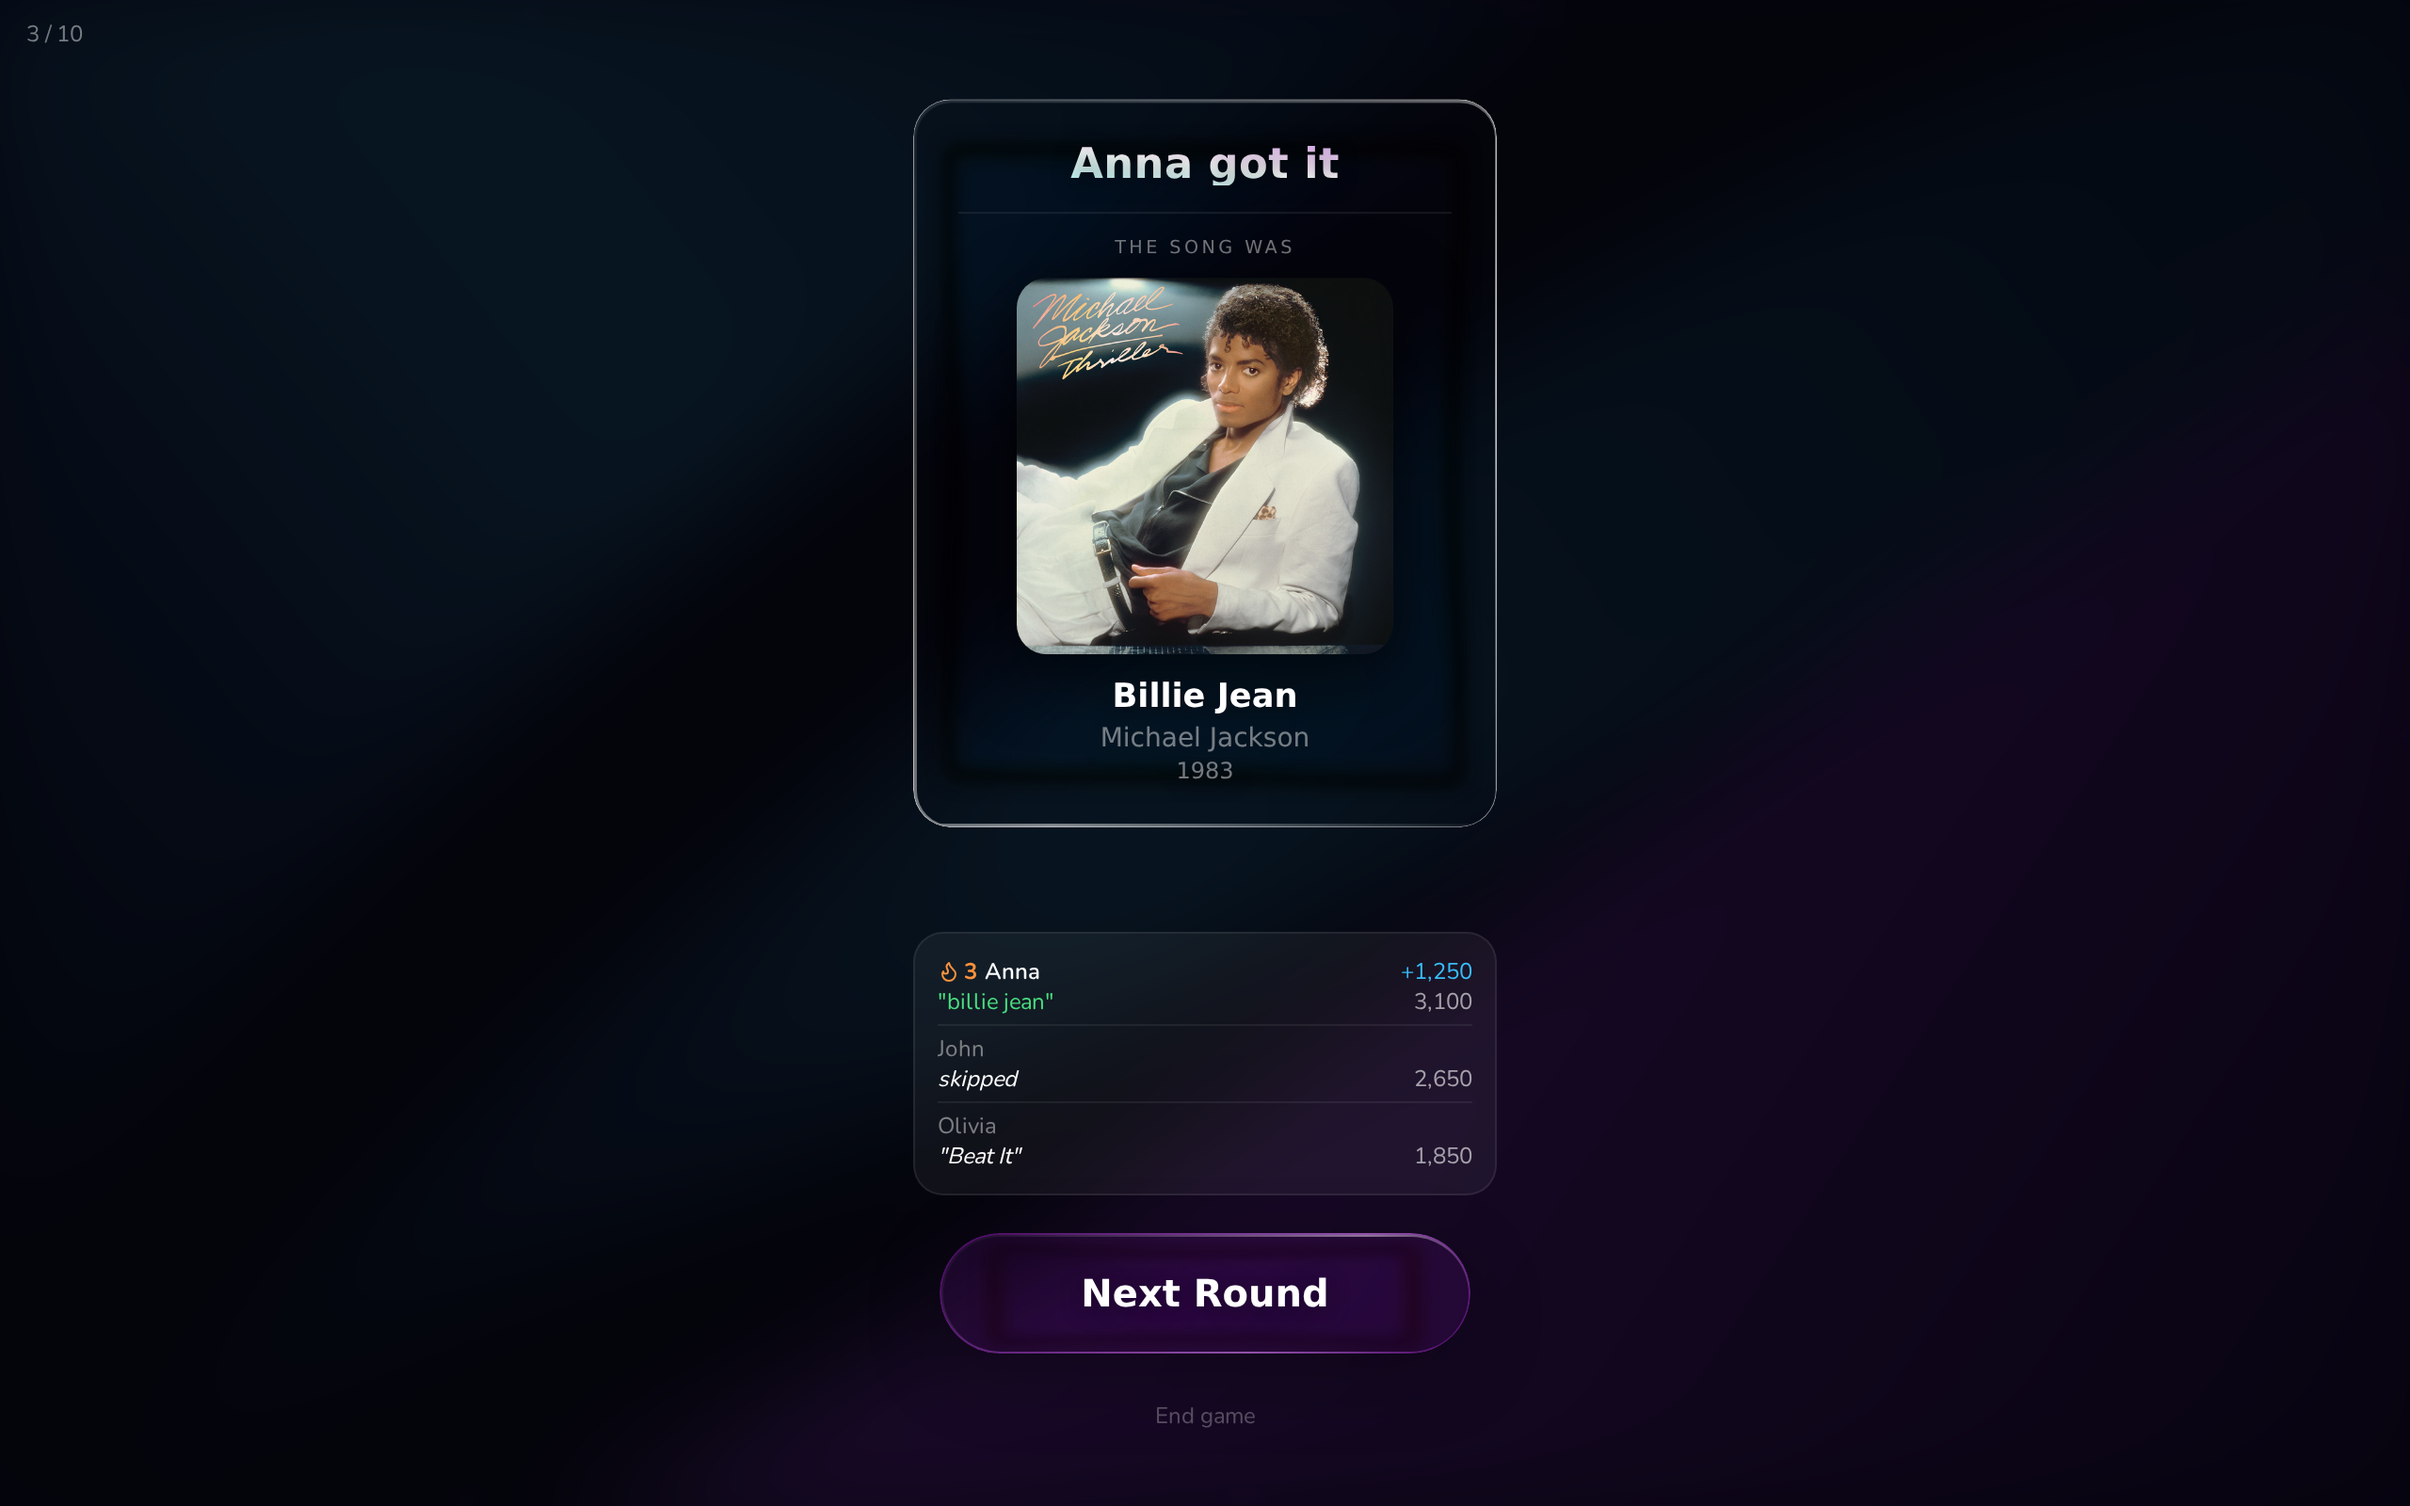
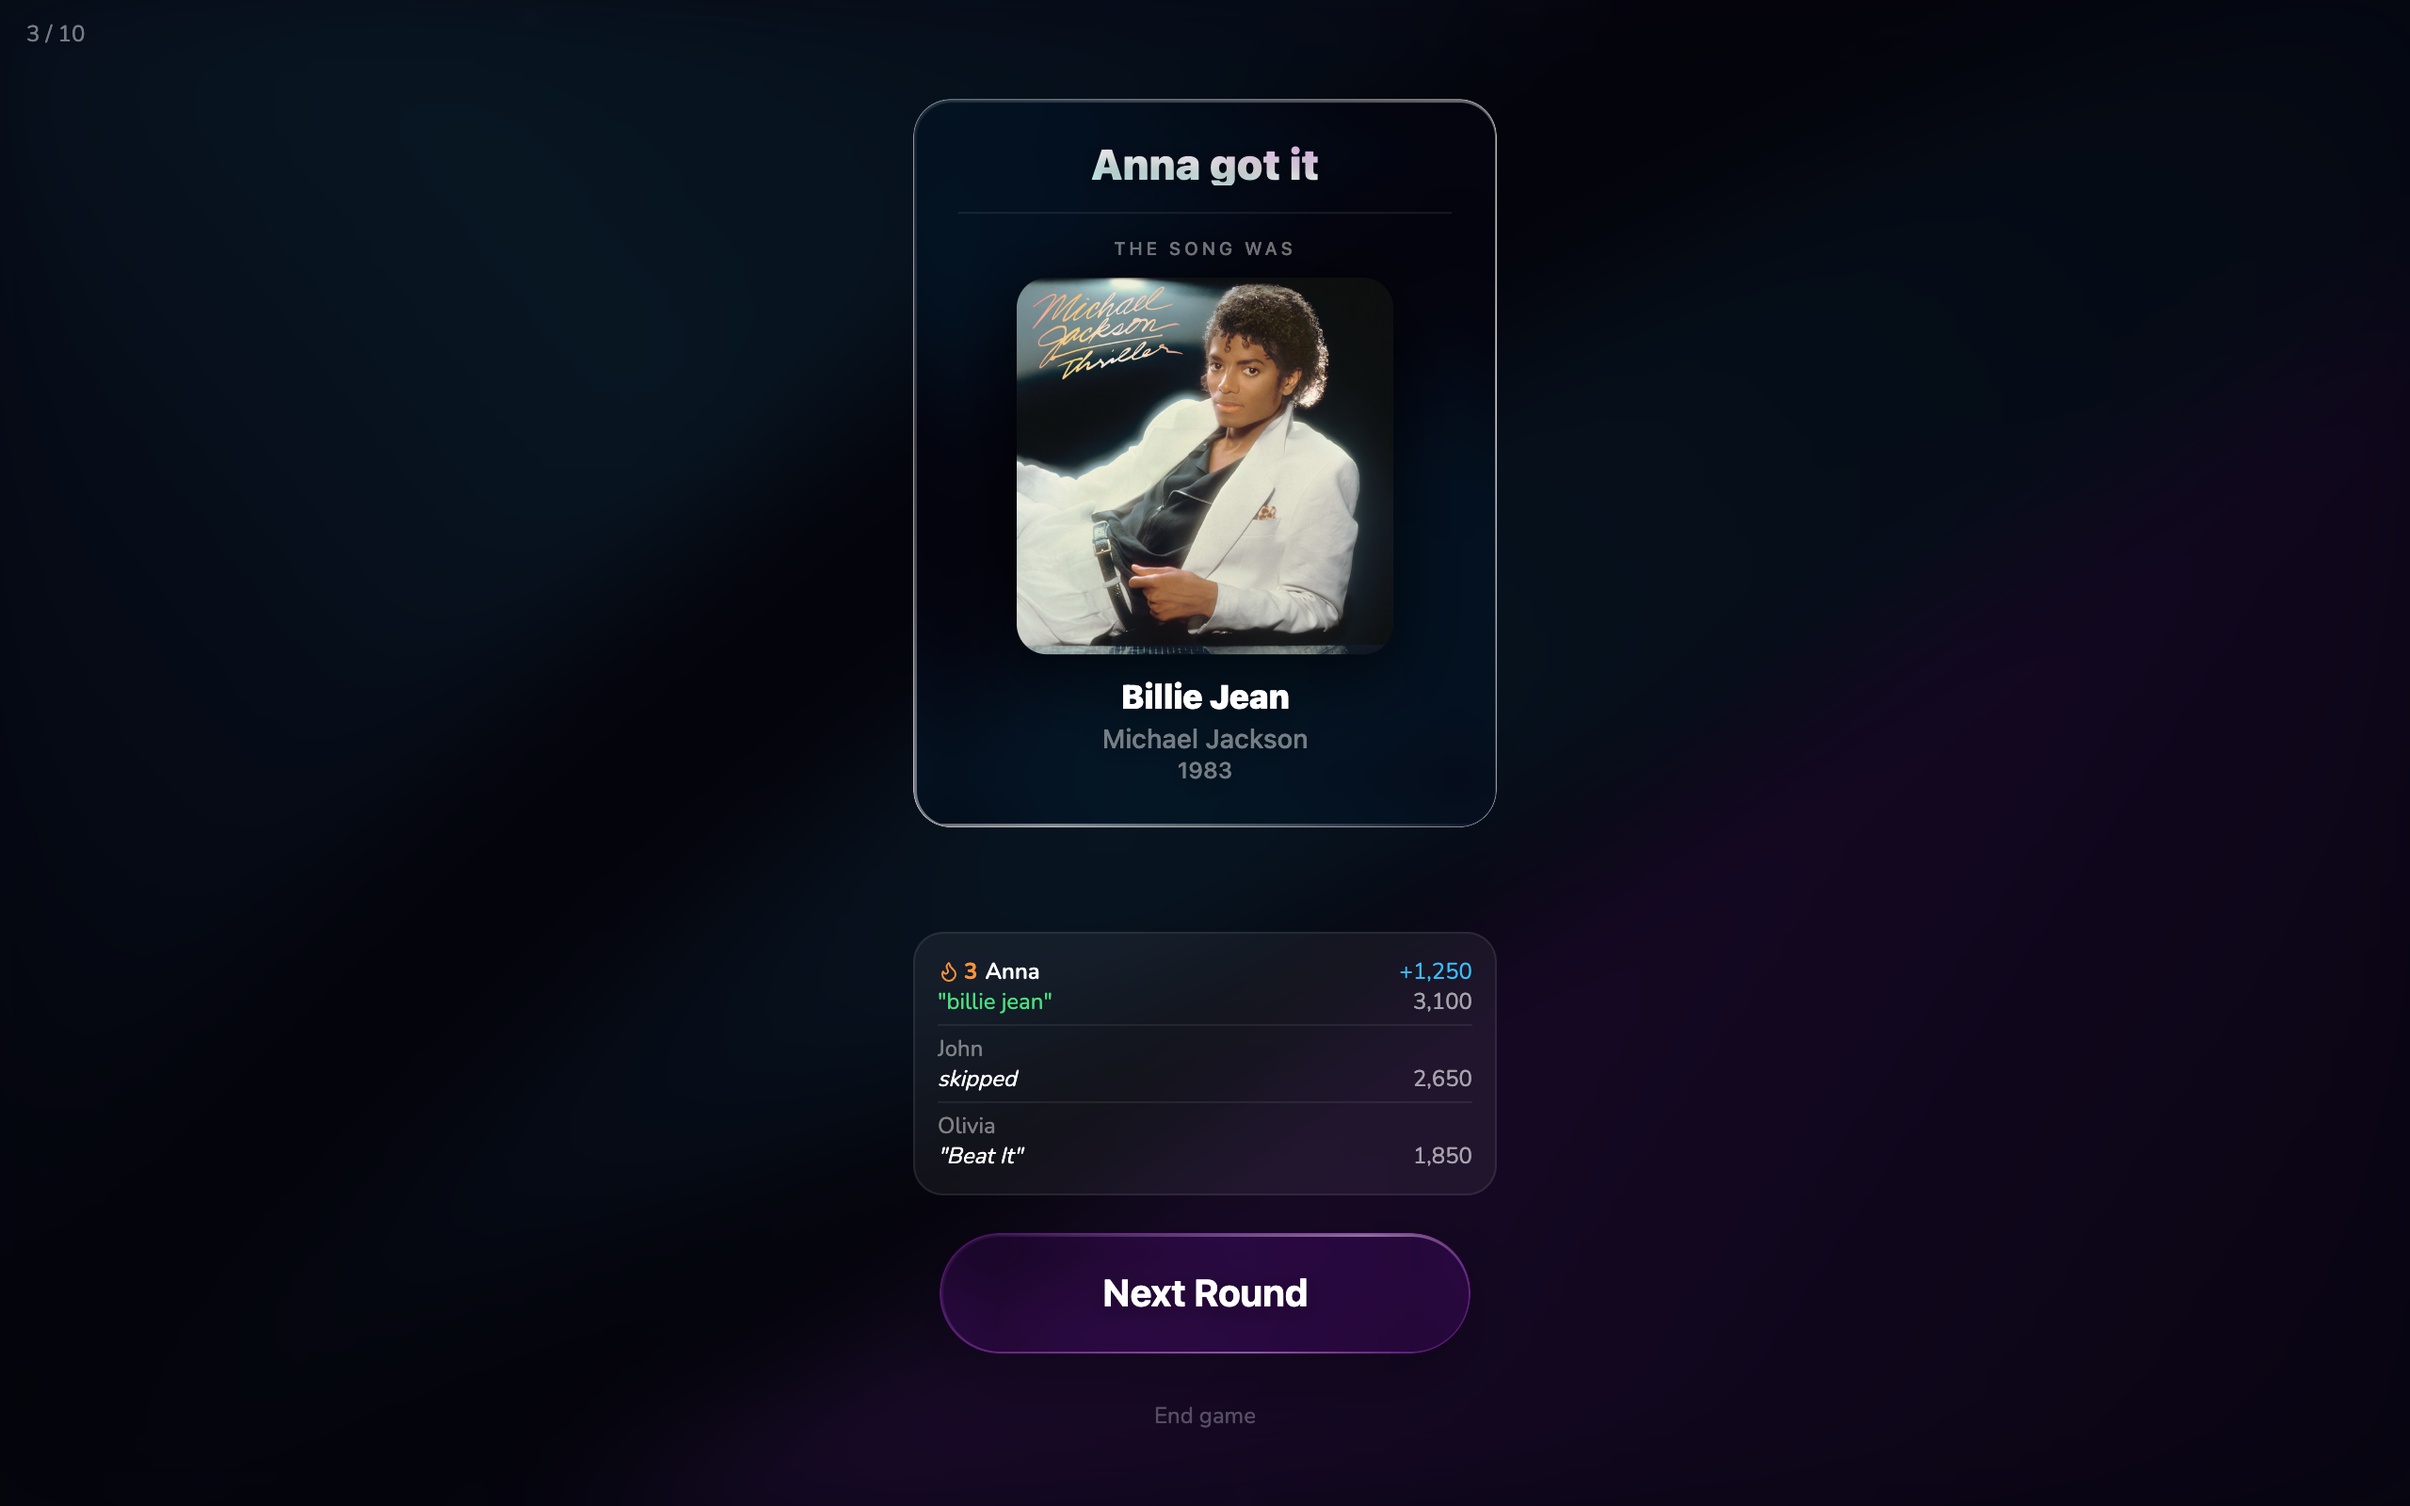
fix: stabilize liquid glass screenshots

diff --git a/.github/scripts/screenshot-utils.js b/.github/scripts/screenshot-utils.js
@@ -16,6 +16,15 @@ async function prepPage(page) {
             animation-delay: 0s !important;
             transition-duration: 0s !important;
             transition-delay: 0s !important;
+        }
+        /* liquid-glass-react measures and transitions its internal surface
+           on mount. Freezing that transition leaves Chromium with the
+           library's black shadow geometry, producing a false inset rim in
+           host-card screenshots. Let only those internal layers settle. */
+        .liquid-glass-stabilizer > *,
+        .liquid-glass-stabilizer .glass {
+            transition-duration: 0.2s !important;
+            transition-delay: 0s !important;
         }`;
         const inject = () => {
             const style = document.createElement('style');
